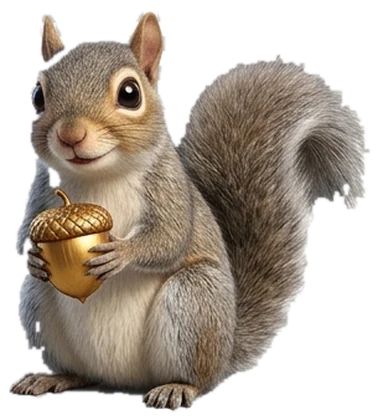
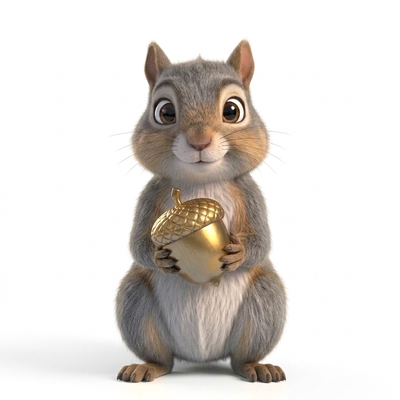
Eight Scout poses, each meaning something
The renders came as pairs — every pose on white and on black — and that
pair is worth far more than either image. For a pixel over a background:

    C_white = C·α + (1 − α)      C_black = C·α

Subtract, and the subject cancels out: α = 1 − (C_white − C_black), with
C_black already premultiplied. That gives an exact alpha channel,
including every fur wisp and the contact shadow, which no amount of
keying one image could recover. The channels agree to within a few
thousandths, which is how you can tell the two renders are the same
image and not two attempts at it.

The shadow falls out correctly for free: it belongs to the background in
both renders, so it lands at low alpha and stays a soft contact shadow
instead of the grey puddle that keying would have baked in. That was
literally the first icon bug in this project — a background welded to
the artwork, showing up as a black square on the launch screen.

Placement, and the point of having eight rather than one:

  acorn     launch, install, and the empty dashboard
  waving    first run, and only first run
  report    the cover card — the numbers are a field report
  receipt   items, in the header and the empty state
  settings  the settings header
  alert     ears up, on the card listing what needs doing
  resting   curled asleep, on the same card when nothing does
  avatar    cropped from the acorn head, for the 36px circle

The last two are the ones that earn their keep. Same card, opposite
[…]

diff --git a/src/screens/Home.tsx b/src/screens/Home.tsx
@@ -163,6 +163,11 @@ function CoverCard({
 
   return (
     <div className="covercard">
+      {/* Scout presenting the figures. It's a field report — his, about your
+          house — and the pose is the only thing on the card that says the
+          numbers were gathered rather than merely displayed. */}
+      <Scout pose="report" height={72} motion={['breathe']} alt="" />
+
       <div className="coverring">
         <svg width={size} height={size} viewBox={`0 0 ${size} ${size}`} aria-hidden="true">
           <g transform={`rotate(-90 ${size / 2} ${size / 2})`}>
@@ -245,12 +250,14 @@ function NeedsCard({
   if (gaps.length === 0) {
     return (
       <div className="card needscard done">
-        <div className="cardhead">
+        {/* Asleep, because there is nothing to do. The pose carries the state
+            faster than the heading does, and it's the only place in the app
+            that gets to say "finished". */}
+        <Scout pose="resting" height={64} motion={['breathe']} alt="" />
+        <div className="needsdone-txt">
           <h3>Nothing needs you</h3>
+          <p>Every item has a receipt, a warranty length, a date and a photo.</p>
         </div>
-        <p className="hint">
-          Every item has a receipt, a warranty length, a date and a photo. That's the whole job.
-        </p>
       </div>
     );
   }
@@ -258,7 +265,12 @@ function NeedsCard({
   return (
     <div className="card needscard">
       <div className="cardhead">
-        <h3>Needs a minute</h3>
+        {/* Ears up. Same card, opposite posture — the difference between the
+            two states should be legible before a word is read. */}
+        <span className="needshead">
+          <Scout pose="alert" height={40} motion={['alert']} alt="" />
+          <h3>Needs a minute</h3>
+        </span>
         <span className="countpill">{gaps.reduce((n, g) => n + g.count, 0)}</span>
       </div>
 
@@ -375,7 +387,7 @@ function shortMoney({ currency, cents }: { currency: string; cents: number }): s
 function EmptyHome({ onAdd }: { onAdd: () => void }) {
   return (
     <div className="empty">
-      <Scout pose="wave" height={210} motion={['float', 'pop']} shadow alt="Scout waving" />
+      <Scout pose="acorn" height={200} motion={['float', 'pop']} shadow alt="" />
       <h3>Nothing stashed yet</h3>
       <p>Add your first item and Scout will keep track of the warranty for you.</p>
       <button type="button" className="btn" onClick={onAdd}>

diff --git a/src/components/Scout.tsx b/src/components/Scout.tsx
@@ -1,21 +1,59 @@
 import acorn from '@/assets/mascot/scout-acorn.webp';
 import alert from '@/assets/mascot/scout-alert.webp';
 import avatar from '@/assets/mascot/scout-avatar.webp';
-import stand from '@/assets/mascot/scout-stand.webp';
-import wave from '@/assets/mascot/scout-wave.webp';
+import receipt from '@/assets/mascot/scout-receipt.webp';
+import report from '@/assets/mascot/scout-report.webp';
+import resting from '@/assets/mascot/scout-resting.webp';
+import settings from '@/assets/mascot/scout-settings.webp';
+import waving from '@/assets/mascot/scout-waving.webp';
 
 /**
  * Scout, the mascot. Poses are imported rather than referenced from /public so
  * the single-file build can inline them — see `npm run build:single`.
  *
+ * Each pose means something, and the meaning is the point of having eight of
+ * them rather than one. Scout asleep on a card with nothing left to do says
+ * "you're finished" more plainly than the sentence next to it does.
+ *
+ *   acorn     guarding the thing itself — launch, install
+ *   waving    hello — first run, and only first run
+ *   report    presenting your numbers — the dashboard
+ *   receipt   holding the paperwork — items
+ *   settings  at a control desk — settings
+ *   alert     ears up, something needs you
+ *   resting   curled up, nothing does
+ *   avatar    a face, for the places 36px is all there is
+ *
+ * Cut from paired renders — see scripts/mascot.mjs. Every pose has a real
+ * alpha channel including its contact shadow, so they sit on cream and on
+ * slate without a plate behind them.
+ *
  * Motion rule from the concept: combine at most two primitives. Float plus
  * breathe reads alive; adding a third reads seasick.
  */
 
-export type ScoutPose = 'acorn' | 'wave' | 'stand' | 'alert' | 'avatar';
+export type ScoutPose =
+  | 'acorn'
+  | 'waving'
+  | 'report'
+  | 'receipt'
+  | 'settings'
+  | 'alert'
+  | 'resting'
+  | 'avatar';
+
 export type ScoutMotion = 'float' | 'breathe' | 'alert' | 'pop' | 'none';
 
-const SRC: Record<ScoutPose, string> = { acorn, wave, stand, alert, avatar };
+const SRC: Record<ScoutPose, string> = {
+  acorn,
+  waving,
+  report,
+  receipt,
+  settings,
+  alert,
+  resting,
+  avatar,
+};
 
 const MOTION_CLASS: Record<ScoutMotion, string> = {
   float: 'm-float',

diff --git a/src/screens/Items.tsx b/src/screens/Items.tsx
@@ -126,7 +126,7 @@ export function Items({
   if (all.length === 0) {
     return (
       <div className="empty">
-        <Scout pose="stand" height={170} motion={['float']} shadow />
+        <Scout pose="receipt" height={180} motion={['float']} shadow alt="" />
         <h3>Nothing stashed yet</h3>
         <p>Everything you add shows up here, grouped by the room it lives in.</p>
         <button type="button" className="btn" onClick={onAdd}>
@@ -140,7 +140,10 @@ export function Items({
     <>
       <header className="apphead">
         <div className="apptitle">Items</div>
-        <span className="countpill">{all.length}</span>
+        <span className="headmark">
+          <span className="countpill">{all.length}</span>
+          <Scout pose="receipt" height={44} motion={['breathe']} alt="" />
+        </span>
       </header>
 
       <div className="searchbar">
@@ -286,7 +289,7 @@ function SearchResults({
   if (hits.length === 0) {
     return (
       <div className="empty" style={{ paddingTop: 30 }}>
-        <Scout pose="stand" height={120} motion={['float']} shadow />
+        <Scout pose="alert" height={120} motion={['float']} shadow alt="" />
         <h3>Nothing found</h3>
         <p>Scout checked names, brands, models, serials, rooms, notes and document titles.</p>
       </div>

diff --git a/src/styles/app.css b/src/styles/app.css
@@ -2703,3 +2703,62 @@ button.countpill.tappill:active {
 .savebar .btn {
   margin: 0;
 }
+
+/* ------------------------------------------------------------ the mascot */
+
+/* Scout in a screen header, beside the title. Small, and never a control —
+   he's a signpost for which room of the app you're in, not a button. */
+.headmark {
+  display: flex;
+  align-items: center;
+  gap: 10px;
+  flex: none;
+  line-height: 0;
+}
+
+/* On the cover card he stands to the right of the ring, tucked against the
+   top edge so the ring keeps the centre. */
+.covercard {
+  position: relative;
+}
+
+.covercard > .rig {
+  position: absolute;
+  top: 10px;
+  right: 12px;
+}
+
+/* Ears up, next to the heading that says what needs doing. */
+.needshead {
+  display: flex;
+  align-items: center;
+  gap: 9px;
+  min-width: 0;
+}
+
+.needshead h3 {
+  font-size: 14px;
+  font-weight: 600;
+  letter-spacing: -0.005em;
+}
+
+/* Curled up, with the good news beside him. */
+.needscard.done {
+  display: flex;
+  align-items: center;
+  gap: 14px;
+  padding: 14px 16px;
+}
+
+.needsdone-txt h3 {
+  font-size: 14px;
+  font-weight: 600;
+  margin-bottom: 3px;
+}
+
+.needsdone-txt p {
+  font-size: 11.5px;
+  font-weight: 300;
+  line-height: 1.5;
+  color: var(--muted);
+}

diff --git a/src/screens/Settings.tsx b/src/screens/Settings.tsx
@@ -44,6 +44,7 @@ import {
 import { appUrl, shareApp, shareMessage } from '@/lib/share';
 import { formatBytes, storageUsage, type StorageUsage } from '@/lib/storage';
 import { DriveCard } from '@/components/DriveCard';
+import { Scout } from '@/components/Scout';
 
 type Notice = { tone: 'ok' | 'bad'; text: string } | null;
 
@@ -74,6 +75,9 @@ export function Settings({
     <>
       <header className="apphead">
         <div className="apptitle">Settings</div>
+        <span className="headmark">
+          <Scout pose="settings" height={48} motion={['breathe']} alt="" />
+        </span>
       </header>
 
       {notice && <div className={`notice ${notice.tone}`}>{notice.text}</div>}

diff --git a/index.html b/index.html
@@ -28,7 +28,7 @@
       href="https://fonts.googleapis.com/css2?family=Bricolage+Grotesque:opsz,wght@12..96,200..800&family=Inter:wght@300..700&family=JetBrains+Mono:wght@400;500&display=swap"
       rel="stylesheet"
     />
-    <link rel="preload" as="image" href="splash-scout.png" />
+    <link rel="preload" as="image" href="splash-scout.webp" />
 
     <!--
       The splash lives here, not in React.
@@ -137,7 +137,7 @@
     <div id="root"></div>
 
     <div id="splash">
-      <img src="splash-scout.png" alt="" />
+      <img src="splash-scout.webp" alt="" />
       <h1>Stash<span>&nbsp;it</span></h1>
       <p>Warranties, receipts and manuals for everything you own.</p>
     </div>

diff --git a/src/components/Welcome.tsx b/src/components/Welcome.tsx
@@ -39,7 +39,7 @@ export function Welcome() {
       <div className="fullsheet welcomesheet">
         <span className="grip" aria-hidden="true" />
 
-        <Scout pose="wave" height={150} motion={['float', 'breathe']} shadow alt="Scout waving" />
+        <Scout pose="waving" height={150} motion={['float', 'breathe']} shadow alt="Scout waving" />
 
         <h2 id="welcome-title">Hello, I'm Scout</h2>
         <p>I'll keep an eye on your warranties. What should I call you?</p>

diff --git a/src/screens/Placeholder.tsx b/src/screens/Placeholder.tsx
@@ -4,7 +4,7 @@ import { Scout } from '@/components/Scout';
 export function Placeholder({ title, note }: { title: string; note: string }) {
   return (
     <div className="empty">
-      <Scout pose="stand" height={150} motion={['float']} shadow />
+      <Scout pose="alert" height={150} motion={['float']} shadow />
       <h3>{title}</h3>
       <p>{note}</p>
     </div>
